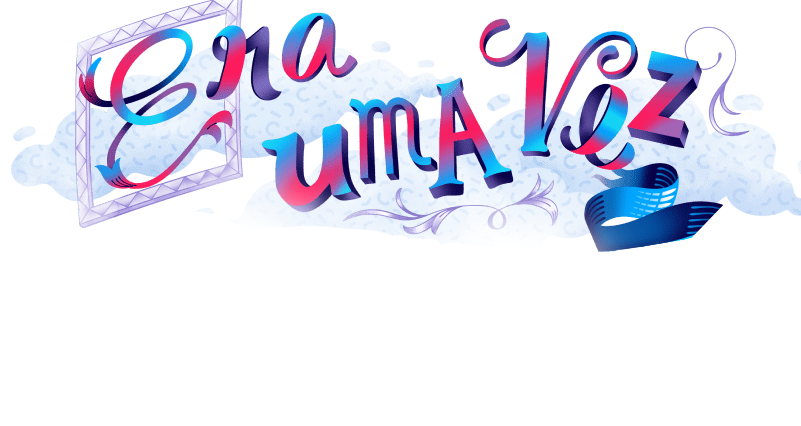
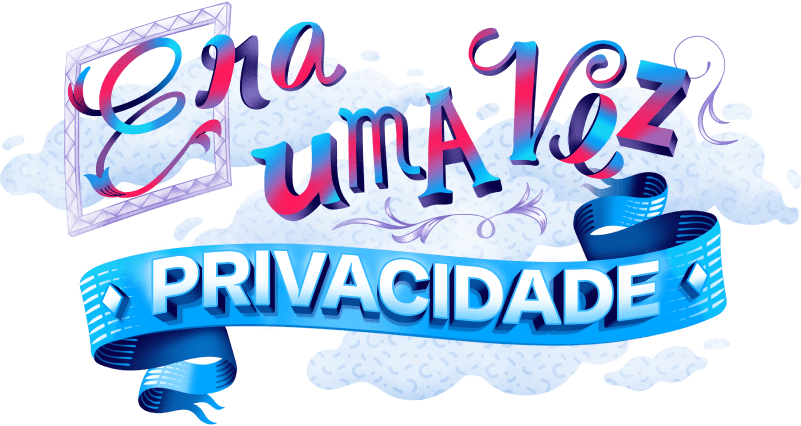
feat: new section added

diff --git a/fragments/BookBox.tsx b/fragments/BookBox.tsx
@@ -9,11 +9,6 @@ const boxVariant = {
   hidden: { opacity: 0, scale: 0 },
 };
 
-const NextboxVariant = {
-  visible: { opacity: 1, scale: 1, transition: { duration: 2 } },
-  hidden: { opacity: 0, scale: 0 },
-};
-
 const BookBox = ({ num }: any) => {
   const control = useAnimation();
   const [ref, inView] = useInView();
@@ -29,33 +24,37 @@ const BookBox = ({ num }: any) => {
   return (
     <>
       <motion.div
-        className="box"
+        className="box shadow-2xl shadow-blue-500/20 p-5 rounded-3xl cursor-pointer"
         ref={ref}
         variants={boxVariant}
         initial="hidden"
         animate={control}
       >
-        <h1 className="text-gray-600 text-4xl">Olá raquel</h1>
-        <p className="text-gray-600 text-xl">
-          Gosto de fazer ótimas paginas como essa que você está vendo, aprender
-          programação e programar são coisas prazerosas para mim, TypeScript,
-          React, Tailwind e para mim as tecnologias mais divertidas hoje no
-          mundo tech, espero que nós se divirta junto!
+        <h1 className="bg-gradient-to-r from-blue-500 via-pink-500 to-red-500 bg-clip-text text-transparent text-4xl">
+          Nome do Livro da Raquel
+        </h1>
+        <p className="text-[#37383f] text-xl">
+          Lore do Livro Lore do Livro Lore do Livro Lore do Livro Lore do Livro
+          Lore do Livro Lore do Livro Lore do Livro Lore do Livro Lore do Livro{" "}
+          Lore do Livro Lore do Livro Lore do Livro Lore do Livro Lore do Livro
+          Lore do Livro{" "}
         </p>
       </motion.div>
       <motion.div
-        className="box"
+        className="box shadow-2xl shadow-blue-500/20 p-5 rounded-3xl cursor-pointer"
         ref={ref}
-        variants={NextboxVariant}
+        variants={boxVariant}
         initial="hidden"
         animate={control}
       >
-        <h1 className="text-gray-600 text-4xl">Olá raquel</h1>
-        <p className="text-gray-600 text-xl">
-          Gosto de fazer ótimas paginas como essa que você está vendo, aprender
-          programação e programar são coisas prazerosas para mim, TypeScript,
-          React, Tailwind e para mim as tecnologias mais divertidas hoje no
-          mundo tech, espero que nós se divirta junto!
+        <h1 className="bg-gradient-to-r from-blue-500 via-pink-500 to-red-500 bg-clip-text text-transparent text-4xl">
+          Nome do Livro da Raquel
+        </h1>
+        <p className="text-[#37383f] text-xl">
+          Lore do Livro Lore do Livro Lore do Livro Lore do Livro Lore do Livro
+          Lore do Livro Lore do Livro Lore do Livro Lore do Livro Lore do Livro{" "}
+          Lore do Livro Lore do Livro Lore do Livro Lore do Livro Lore do Livro
+          Lore do Livro{" "}
         </p>
       </motion.div>
     </>

diff --git a/fragments/FloatingButton.tsx b/fragments/FloatingButton.tsx
@@ -1,9 +1,32 @@
+"use client";
+
+import Lenis from "@studio-freight/lenis";
 import React from "react";
 
 const FloatingButton = () => {
+  const lenis = new Lenis({
+    duration: 2,
+    easing: (t) => (t === 1 ? 1 : 1 - Math.pow(2, -10 * t)),
+    orientation: "vertical",
+    smoothTouch: true,
+    touchMultiplier: 1,
+  });
+
+  function raf(time: any) {
+    lenis.raf(time);
+    requestAnimationFrame(raf);
+  }
+
+  requestAnimationFrame(raf);
+
+  const handleClick: React.MouseEventHandler<HTMLAnchorElement> = (event) => {
+    event.preventDefault();
+    lenis.scrollTo("#BookSection");
+  };
   return (
-    <button
-      id="#BookSection"
+    <a
+      href="#BookSection"
+      onClick={handleClick}
       className="fixed w-[64px] h-[64px] top-[80%] left-[calc(50%-32px)] bg-custom-gradient shadow-custom border-none rounded-[50%] flex justify-center items-center cursor-pointer z-[15]"
     >
       <svg
@@ -20,7 +43,7 @@ const FloatingButton = () => {
           stroke-linecap="round"
         ></path>
       </svg>
-    </button>
+    </a>
   );
 };
 

diff --git a/app/globals.css b/app/globals.css
@@ -9,6 +9,56 @@
   animation: animatedgradient 6s ease infinite alternate;
 }
 
+::-webkit-scrollbar {
+  width: 6px;
+}
+
+/* Track */
+::-webkit-scrollbar-track {
+  background: #fafafafa;
+}
+
+/* Handle */
+::-webkit-scrollbar-thumb {
+  background: #525252;
+}
+
+/* Handle on hover */
+::-webkit-scrollbar-thumb:hover {
+  background: #525252;
+}
+
+html.lenis {
+  height: auto;
+}
+
+.lenis.lenis-smooth {
+  scroll-behavior: auto;
+}
+
+.lenis.lenis-smooth [data-lenis-prevent] {
+  overscroll-behavior: contain;
+}
+
+.lenis.lenis-stopped {
+  overflow: hidden;
+}
+
+.lenis.lenis-scrolling iframe {
+  pointer-events: none;
+}
+
+.progress-bar {
+  z-index: 5;
+  position: fixed;
+  top: 0;
+  left: 0;
+  right: 0;
+  height: 5px;
+  background: linear-gradient(125.08deg, #ff1a5c -40.09%, #006fba 242.25%);
+  transform-origin: 0%;
+}
+
 @keyframes animatedgradient {
   0% {
     background-position: 0% 50%;

diff --git a/components/AboutMe.tsx b/components/AboutMe.tsx
@@ -1,0 +1,22 @@
+import Link from "next/link";
+import React from "react";
+
+const AboutMe = () => {
+  return (
+    <section className="w-full">
+      <div className="max-w-6xl w-full m-auto px-4 py-16 flex gap-16 flex-col justify-center items-center">
+        <h1 className="max-w-2xl bg-gradient-to-r from-blue-500 via-pink-500 to-red-500 bg-clip-text text-transparent font-bold text-xl md:text-2xl">
+          Quer falar comigo, ou me conhecer mais?
+        </h1>
+        <Link
+          href={"./AboutMe/AboutMePage"}
+          className="bg-gradient-to-r from-blue-500 via-pink-500 to-red-500 bg-clip-text text-transparent font-bold px-5 text-5xl md:text-7xl cursor-pointer mb-10  hover:shadow-[0_10px_20px_rgba(240,_46,_170,_0.7)] p-5 rounded-3xl transition duration-300 text-center"
+        >
+          minha biografia
+        </Link>
+      </div>
+    </section>
+  );
+};
+
+export default AboutMe;

diff --git a/fragments/Footer.tsx b/fragments/Footer.tsx
@@ -1,9 +1,12 @@
 export const Footer = () => {
   return (
     <footer className="w-full flex">
-      <div className="max-w-7xl w-full m-auto flex justify-start items-center max-sm:gap-4 max-sm:flex-wrap-reverse">
-        <div className="text-gray-200">
-          <p>Feito com muito &hearts; para Raquel Teixeira</p>
+      <div className="max-w-7xl py-10 w-full m-auto flex justify-start items-center max-sm:gap-4 max-sm:flex-wrap-reverse">
+        <div className="bg-gradient-to-r from-blue-500 via-pink-500 to-red-500 bg-clip-text text-transparent font-bold px-5">
+          <p>
+            Feito com muito <span className="text-red-500">&hearts;</span> para
+            a escritora Raquel Teixeira
+          </p>
           <span>&copy; Todos os direitos reservados - Lucas Leão</span>
         </div>
       </div>

diff --git a/app/page.tsx b/app/page.tsx
@@ -1,13 +1,27 @@
+"use client";
+
+import { motion, useScroll, useSpring } from "framer-motion";
+
 import BooksSections from "@/components/BooksSections";
 import MainSection from "@/components/MainSection";
 import FloatingButton from "@/fragments/FloatingButton";
+import AboutMe from "@/components/AboutMe";
 
 const Home = () => {
+  const { scrollYProgress } = useScroll();
+  const scaleX = useSpring(scrollYProgress, {
+    stiffness: 100,
+    damping: 30,
+    restDelta: 0.001,
+  });
+
   return (
     <main>
+      <motion.div className="progress-bar" style={{ scaleX }} />
       <FloatingButton />
       <MainSection />
       <BooksSections />
+      <AboutMe />
     </main>
   );
 };

diff --git a/app/layout.tsx b/app/layout.tsx
@@ -5,6 +5,7 @@ import "./globals.css";
 import Header from "@/fragments/Header";
 import { Footer } from "@/fragments/Footer";
 import SideNavBar from "@/fragments/SideNavBar";
+import { LenisScroller } from "@/fragments/SmoothScroller";
 
 const poppins = Poppins({
   subsets: ["latin"],
@@ -22,8 +23,9 @@ export default function RootLayout({
   children: React.ReactNode;
 }) {
   return (
-    <html lang="pt-BR" className="bg-[#f4eaed] scroll-smooth">
+    <html lang="pt-BR" className="bg-gray-300 ">
       <body>
+        <LenisScroller />
         <section className="noise"></section>
         <SideNavBar />
         <main className={`${poppins.className}`}>

diff --git a/components/MainSection.tsx b/components/MainSection.tsx
@@ -3,13 +3,13 @@ import Image from "next/image";
 const MainSection = () => {
   return (
     <section id="#inicio" className="w-full">
-      <div className="mt-20 mb-20 max-w-7xl w-full m-auto flex justify-center items-center relative">
+      <div className="mt-20 mb-20 w-full m-auto flex justify-center items-center relative">
         <Image
-          width={800}
-          height={400}
+          width={801}
+          height={426}
           className="floating"
           alt={"image"}
-          src="/privacida.png"
+          src="/privacidade2.png"
         />
       </div>
     </section>

diff --git a/components/BooksSections.tsx b/components/BooksSections.tsx
@@ -3,8 +3,8 @@ import React from "react";
 import BookBox from "@/fragments/BookBox";
 const BooksSections = () => {
   return (
-    <section id="#BookSection" className="flex w-full">
-      <div className="max-w-7xl w-full m-auto mt-80 flex justify-center items-center gap-5">
+    <section id="BookSection" className="w-full">
+      <div className="max-w-6xl w-full m-auto px-4 py-16 flex gap-16 flex-col justify-center items-center md:mt-96 sm:mt">
         <BookBox />
       </div>
     </section>

diff --git a/fragments/SmoothScroller.tsx b/fragments/SmoothScroller.tsx
@@ -1,0 +1,26 @@
+"use client";
+import Lenis from "@studio-freight/lenis";
+import { useEffect } from "react";
+
+export const LenisScroller = () => {
+  useEffect(() => {
+    const lenis = new Lenis();
+
+    lenis.on("scroll", (e: any) => {
+      // console.log(e);
+    });
+
+    function raf(time: number) {
+      lenis.raf(time);
+      requestAnimationFrame(raf);
+    }
+
+    requestAnimationFrame(raf);
+
+    return () => {
+      lenis.destroy();
+    };
+  }, []);
+
+  return <></>;
+};

diff --git a/app/AboutMe/AboutMePage.tsx b/app/AboutMe/AboutMePage.tsx
@@ -1,0 +1,7 @@
+import React from "react";
+
+const AboutMePage = () => {
+  return <div>AboutMePage</div>;
+};
+
+export default AboutMePage;
